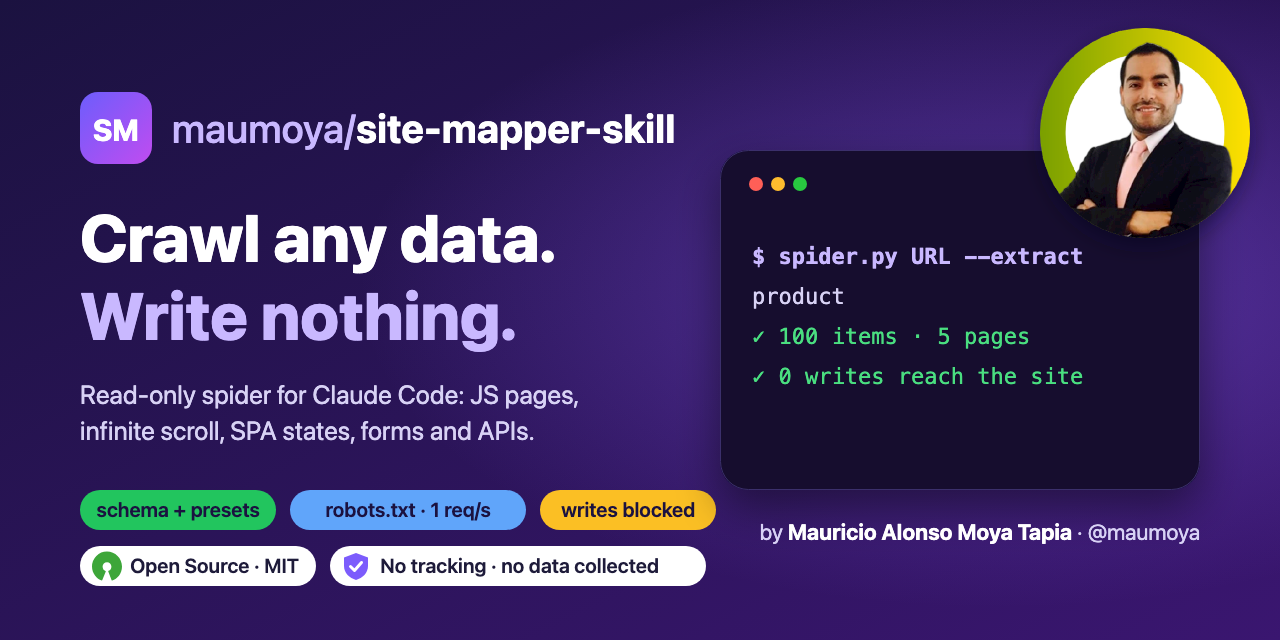
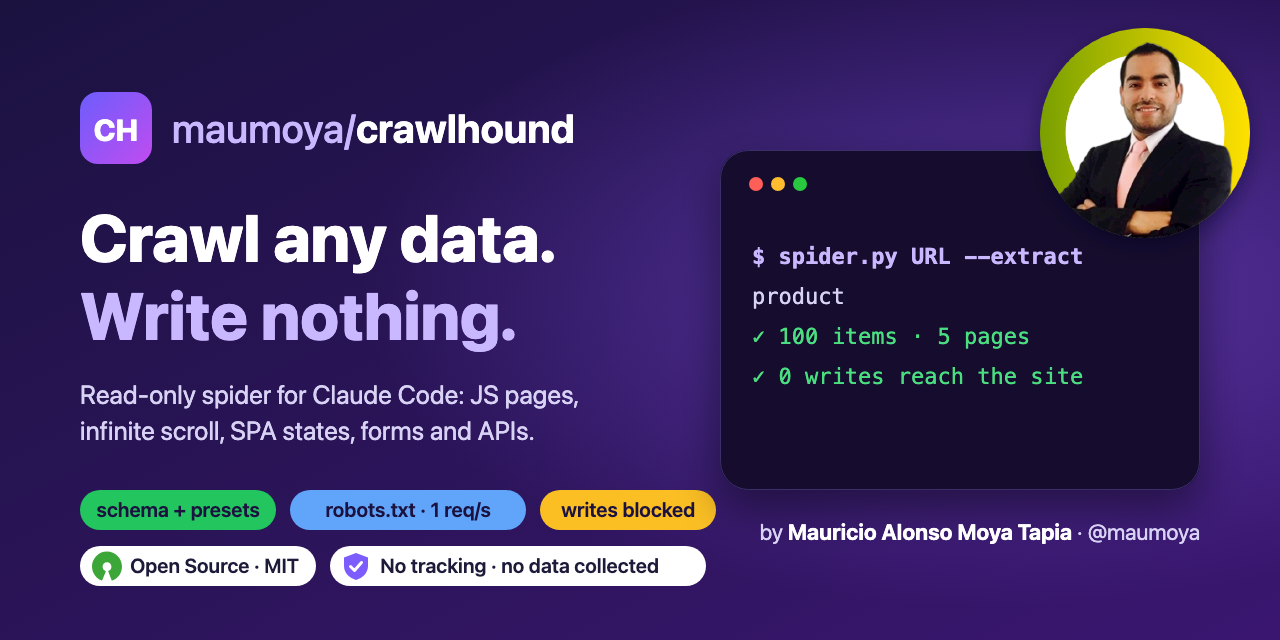
feat: rename to crawlhound 0.2.0; run tests in CI (#2)
* ci: run the unit and end-to-end tests on every PR

* docs: OpenSSF Best Practices passing badge

* feat: rename to crawlhound (0.2.0)

Repo is now maumoya/crawlhound; old links redirect. Skill, plugin,
marketplace, user agent, release zip and header follow. No behaviour change.

Changed region(s): [[0.2812, 0.1562, 0.5312, 0.25], [0.0625, 0.1875, 0.125, 0.2188]]

diff --git a/skills/crawlhound/scripts/spider.py b/skills/crawlhound/scripts/spider.py
@@ -1,4 +1,4 @@
-"""site-mapper spider: crawl a site read-only, map its SPA states and pull the data you choose.
+"""crawlhound spider: crawl a site read-only, map its SPA states and pull the data you choose.
 
 Data: `--extract SCHEMA` (a preset name or a JSON schema file, see extract.py) pulls items from every page state
 into items.jsonl. Map: what it records: the page tree, SPA states reached by clicking (tabs, modals, sidebar buttons without links),
@@ -38,8 +38,8 @@ sys.path.insert(0, str(Path(__file__).resolve().parent))
 import cdp as _cdp  # noqa: E402
 import extract as _extract  # noqa: E402
 
-USER_AGENT = "site-mapper/0.1 (+https://github.com/maumoya/site-mapper-skill; read-only; robots.txt honoured)"
-ROBOTS_TOKEN = "site-mapper"
+USER_AGENT = "crawlhound/0.2 (+https://github.com/maumoya/crawlhound; read-only; robots.txt honoured)"
+ROBOTS_TOKEN = "crawlhound"
 # Never mapped, never probed, never fetched, whatever the flags say. Private hosts are kept as SHA-256 hashes of
 # the registrable host name so the public code enforces the rule without naming them.
[1 lines of base64/hex data omitted]
@@ -225,7 +225,7 @@ def check_target(url: str, terms_ok: bool) -> str:
 GUARD_JS = r"""
 (() => {
   const log = (kind, detail) => { try { (window.__vsm = window.__vsm || []).push([kind, String(detail)]); } catch (e) {} };
-  const Blocked = function (url) { log('websocket', url); throw new Error('site mapper: WebSocket blocked'); };
+  const Blocked = function (url) { log('websocket', url); throw new Error('crawlhound: WebSocket blocked'); };
   try { window.WebSocket = Blocked; } catch (e) {}
   try { navigator.sendBeacon = (url) => { log('beacon', url); return false; }; } catch (e) {}
   try { window.open = (url) => { log('window.open', url); return null; }; } catch (e) {}

diff --git a/bench/runners/ours.py b/bench/runners/ours.py
@@ -1,4 +1,4 @@
-"""Run site-mapper's spider.py on one benchmark target; usage: ours.py TARGET [FIXTURE_ORIGIN]."""
+"""Run crawlhound's spider.py on one benchmark target; usage: ours.py TARGET [FIXTURE_ORIGIN]."""
 import json
 import subprocess
 import sys
@@ -9,7 +9,7 @@ from pathlib import Path
 sys.path.insert(0, str(Path(__file__).resolve().parent.parent))
 from common import BENCH, save, target  # noqa: E402
 
-SPIDER = BENCH.parent / "skills" / "site-mapper" / "scripts" / "spider.py"
+SPIDER = BENCH.parent / "skills" / "crawlhound" / "scripts" / "spider.py"
 
 
 def schema_for(t: dict) -> dict:
@@ -44,13 +44,13 @@ def main() -> None:
         seconds = round(time.time() - began, 1)
         out = Path(tmp) / "out"
         if proc.returncode != 0 or not (out / "map.json").exists():
-            save("site-mapper", name, {"status": "error", "note": proc.stderr[-500:], "seconds": seconds})
+            save("crawlhound", name, {"status": "error", "note": proc.stderr[-500:], "seconds": seconds})
             return
         rep = json.loads((out / "map.json").read_text())
         items = [json.loads(line) for line in (out / "items.jsonl").read_text().splitlines() if line]
         items = [{k: v for k, v in i.items() if not k.startswith("_")} for i in items]
         cov = rep["coverage"]
-        save("site-mapper", name, {
+        save("crawlhound", name, {
             "items": items, "pages": cov["pages"], "states": cov["states"], "forms": len(rep.get("forms", [])),
             "apis": len(rep.get("api", {})), "seconds": seconds,
             "blocked": len(rep.get("blocked_requests", [])), "note": "spider.py --extract, 1 req/s"})

diff --git a/bench/run.py b/bench/run.py
@@ -1,6 +1,6 @@
 """Run one tool on one target: starts the logging fixture server for the fixture target, then the runner.
 
-usage: run.py TOOL TARGET     (TOOL = site-mapper | scrapy | katana | crawlee | crawl4ai)
+usage: run.py TOOL TARGET     (TOOL = crawlhound | scrapy | katana | crawlee | crawl4ai)
 Docker tools reach the host fixture through host.lima.internal (colima) / host.docker.internal."""
 import json
 import os
@@ -13,7 +13,7 @@ import fixture_server  # noqa: E402
 from common import BENCH, RESULTS  # noqa: E402
 
 DOCKER_HOST_NAME = os.environ.get("BENCH_HOST_NAME", "host.lima.internal")
-RUNNERS = {"site-mapper": "ours.py", "scrapy": "scrapy_run.py", "katana": "katana_run.py",
+RUNNERS = {"crawlhound": "ours.py", "scrapy": "scrapy_run.py", "katana": "katana_run.py",
            "crawlee": "crawlee_run.py", "crawl4ai": "crawl4ai_run.py"}
 
 
@@ -23,7 +23,7 @@ def main() -> None:
     if name == "fixture":
         log = RESULTS / tool / "fixture-server.jsonl"
         bind = "127.0.0.1"
-        public = "127.0.0.1" if tool == "site-mapper" else DOCKER_HOST_NAME
+        public = "127.0.0.1" if tool == "crawlhound" else DOCKER_HOST_NAME
         server, origin = fixture_server.start(log, host=bind, public_host=public)
     try:
         subprocess.run([sys.executable, str(BENCH / "runners" / RUNNERS[tool]), name, origin], check=False)

diff --git a/tests/test_spider.py b/tests/test_spider.py
@@ -1,4 +1,4 @@
-"""site-mapper spider: policy units, schema extraction, WebSocket framing, and an end-to-end crawl of a localhost fixture.
+"""crawlhound spider: policy units, schema extraction, WebSocket framing, and an end-to-end crawl of a localhost fixture.
 
 The end-to-end test needs an installed Chrome; it is skipped when none is found."""
 import hashlib
@@ -12,7 +12,7 @@ from pathlib import Path
 
 import sys
 
-sys.path.insert(0, str(Path(__file__).resolve().parent.parent / "skills" / "site-mapper" / "scripts"))
+sys.path.insert(0, str(Path(__file__).resolve().parent.parent / "skills" / "crawlhound" / "scripts"))
 import cdp  # noqa: E402
 import extract  # noqa: E402
 import spider as sm  # noqa: E402
@@ -103,7 +103,7 @@ class RobotsRfc9309(unittest.TestCase):
 
     def test_own_group_wins_and_crawl_delay(self):
         text = ("User-agent: *\nDisallow: /\nCrawl-delay: 2\n\n"
-                "User-agent: site-mapper\nDisallow: /admin\nCrawl-delay: 5\nSitemap: http://h/s.xml\n")
+                "User-agent: crawlhound\nDisallow: /admin\nCrawl-delay: 5\nSitemap: http://h/s.xml\n")
         r = sm.Robots(text)
         self.assertTrue(r.allowed("http://h/page"))
         self.assertFalse(r.allowed("http://h/admin/x"))

diff --git a/skills/crawlhound/scripts/cdp.py b/skills/crawlhound/scripts/cdp.py
@@ -1,4 +1,4 @@
-"""site-mapper: a minimal Chrome DevTools Protocol client on the standard library only.
+"""crawlhound: a minimal Chrome DevTools Protocol client on the standard library only.
 
 The spider needs no pip installs, so this file carries its own small WebSocket
 client (RFC 6455, client side: masked frames out, fragmented frames in, ping answered) and a launcher for the
@@ -184,7 +184,7 @@ class Browser:
     on_event(method, params) is called for every event while a command is awaited or pump() runs."""
 
     def __init__(self, chrome: str, on_event, timeout: float = 15.0):
-        self.profile = tempfile.mkdtemp(prefix="site-mapper-")
+        self.profile = tempfile.mkdtemp(prefix="crawlhound-")
         args = [chrome, "--headless=new", "--remote-debugging-port=0", f"--user-data-dir={self.profile}",
                 "--no-first-run", "--no-default-browser-check", "--disable-extensions", "--disable-sync",
                 "--disable-background-networking", "--disable-component-update", "--disable-default-apps",

diff --git a/bench/common.py b/bench/common.py
@@ -6,7 +6,7 @@ from pathlib import Path
 BENCH = Path(__file__).resolve().parent
 TARGETS = json.loads((BENCH / "targets.json").read_text())
 RESULTS = BENCH / "results"
-UA = "site-mapper-bench/0.1 (+https://github.com/maumoya/site-mapper-skill)"
+UA = "crawlhound-bench/0.2 (+https://github.com/maumoya/crawlhound)"
 
 
 def target(name: str, fixture_origin: str = "") -> dict:

diff --git a/bench/score.py b/bench/score.py
@@ -14,7 +14,7 @@ BENCH = Path(__file__).resolve().parent
 sys.path.insert(0, str(BENCH))
 from common import RESULTS, TARGETS  # noqa: E402
 
-TOOLS = ["site-mapper", "crawlee", "crawl4ai", "scrapy", "katana", "firecrawl"]
+TOOLS = ["crawlhound", "crawlee", "crawl4ai", "scrapy", "katana", "firecrawl"]
 
 
 def norm(v):

diff --git a/bench/ground_truth.py b/bench/ground_truth.py
@@ -12,7 +12,7 @@ import urllib.request
 from pathlib import Path
 
 HERE = Path(__file__).resolve().parent
-UA = "site-mapper-bench/0.1 (+https://github.com/maumoya/site-mapper-skill)"
+UA = "crawlhound-bench/0.2 (+https://github.com/maumoya/crawlhound)"
 
 
 def get(url: str) -> str:

diff --git a/README.md b/README.md
@@ -1,19 +1,20 @@
 <!-- Regenerate the row with badges.sh: it adds Scorecard, Best Practices and measured benefit badges when they exist. -->
-<p align="center"><img src="assets/header.png" alt="Site Mapper: crawl any data, write nothing. Read-only spider for Claude Code." width="100%"></p>
+<p align="center"><img src="assets/header.png" alt="Crawlhound: crawl any data, write nothing. Read-only spider for Claude Code." width="100%"></p>
 
 <p align="center">
   <img src="https://img.shields.io/badge/Claude%20Code-skill%20%2B%20plugin-7c5cfc" alt="Claude Code skill and plugin">
   <img src="https://img.shields.io/badge/license-MIT-blue" alt="MIT license">
   <a href="https://opensource.org/license/mit"><img src="https://img.shields.io/badge/Open%20Source-OSI%20approved%20license-3DA639?logo=opensourceinitiative&logoColor=white" alt="Open Source: OSI-approved MIT license"></a>
   <img src="https://img.shields.io/badge/privacy-no%20tracking%20%C2%B7%20no%20data%20collected-7c5cfc" alt="Privacy: no tracking, no data collected">
-  <a href="https://scorecard.dev/viewer/?uri=github.com/maumoya/site-mapper-skill"><img src="https://api.scorecard.dev/projects/github.com/maumoya/site-mapper-skill/badge" alt="OpenSSF Scorecard"></a>
+  <a href="https://scorecard.dev/viewer/?uri=github.com/maumoya/crawlhound"><img src="https://api.scorecard.dev/projects/github.com/maumoya/crawlhound/badge" alt="OpenSSF Scorecard"></a>
+  <a href="https://www.bestpractices.dev/projects/16516"><img src="https://www.bestpractices.dev/projects/16516/badge" alt="OpenSSF Best Practices"></a>
 </p>
 
 <p align="center"><a href="#results-measured-2026-11-09"><img src="assets/result-card.svg" width="720" alt="100% of items with 100% field accuracy on 4 of 4 targets; 0% of writes reached the site (measured 2026-11-09)"></a></p>
 
-<p align="center"><img src="assets/demo.gif" width="720" alt="Demo: site-mapper crawls a loopback shop, lists a form without sending it, blocks a POST and writes 6 items."></p>
+<p align="center"><img src="assets/demo.gif" width="720" alt="Demo: crawlhound crawls a loopback shop, lists a form without sending it, blocks a POST and writes 6 items."></p>
 
-# Site Mapper
+# Crawlhound
 
 **Tell Claude what data you want from a site. You get it as JSON lines, plus a map of every page, SPA state, form and
 API, and no write ever reaches the site.**
@@ -27,21 +28,21 @@ including JavaScript pages, infinite scroll and SPA states that only a click rea
 Claude Code plugin:
 
 ```
-/plugin marketplace add maumoya/site-mapper-skill
-/plugin install site-mapper@site-mapper
+/plugin marketplace add maumoya/crawlhound
+/plugin install crawlhound@crawlhound
 ```
 
 Any agent that reads skills:
 
 ```
-npx skills add maumoya/site-mapper-skill
+npx skills add maumoya/crawlhound
 ```
 
 Needs Python 3.9+ and an installed Chrome or Chromium. No pip packages.
 
 ## Use
 
-Type `/site-mapper` or just ask:
+Type `/crawlhound` or just ask:
 
 - "Crawl quotes.toscrape.com/js and get every quote, author and tags."
 - "Extract the products and prices from my shop at localhost:3000."
@@ -50,7 +51,7 @@ Type `/site-mapper` or just ask:
 Or run the script yourself:
 
 ```
-python3 skills/site-mapper/scripts/spider.py https://quotes.toscrape.com/js/ \
+python3 skills/crawlhound/scripts/spider.py https://quotes.toscrape.com/js/ \
   --extract schema.json --include '/js/(page/[0-9]+/)?$' --terms-ok
 ```
 
@@ -64,7 +65,7 @@ routes, forms, GET APIs, blocked writes, coverage verdict).
 | Preset | `--extract text` · `tables` · `links` · `prices` · `product` · `article` | the ask fits a common shape |
 | Schema file | `--extract schema.json` (check it with `--check-schema`) | anything else: item selector and named fields, `attr`, `all`, `regex`, `type: number`, `match` |
 
-A schema is a few lines ([format](skills/site-mapper/references/schema.md)):
+A schema is a few lines ([format](skills/crawlhound/references/schema.md)):
 
 ```json
 {"name": "quotes", "item": ".quote",
@@ -89,7 +90,7 @@ sandboxes built for scraping practice (quotes.toscrape.com `/js/` and `/scroll`,
 
 | Tool | Items found (recall), 4 targets | Field accuracy | SPA states mapped | Writes reaching the fixture | robots.txt violations | Time, quotes-js |
 |---|---|---|---|---|---|---|
-| **site-mapper** | **100% · 100% · 100% · 100%** | 100% | **yes (13 on the fixture)** | **0** | **0** | 1135 s |
+| **crawlhound** | **100% · 100% · 100% · 100%** | 100% | **yes (13 on the fixture)** | **0** | **0** | 1135 s |
 | Crawlee 3.13 | 100% · 100% · 100% · 100% | 100% | no | 0 | 0 | 19 s |
 | Crawl4AI 0.6.3 | 100% · 100% · 100% · 20% | 100% | no | 0 | 0 | 33 s |
 | Scrapy 2.13 | 0% · 0% · 0% · 100% (no JavaScript) | 100% where found | no | 0 | 0 | 14 s |
@@ -98,8 +99,8 @@ sandboxes built for scraping practice (quotes.toscrape.com `/js/` and `/scroll`,
 
 What this shows, honestly:
 
-- **Accuracy:** site-mapper and Crawlee both found every item with every field right on all 4 targets.
-- **Where site-mapper is different:** it is the only tool that maps SPA states (clicks that change the page without a
+- **Accuracy:** crawlhound and Crawlee both found every item with every field right on all 4 targets.
+- **Where crawlhound is different:** it is the only tool that maps SPA states (clicks that change the page without a
   link) and lists the write requests it blocked. Writes and robots.txt are measured on the fixture only, where the
   server logs every request.
 - **Where it loses:** speed. It clicks every button and tab and waits 1 second between requests, so the 10-page
@@ -139,7 +140,7 @@ No. It is instructions and local scripts; the only network traffic is the crawl 
 
 ## About the author
 
-Hi, I'm **Mauricio Alonso Moya Tapia** ([@maumoya](https://github.com/maumoya)). I built site-mapper for VISION,
+Hi, I'm **Mauricio Alonso Moya Tapia** ([@maumoya](https://github.com/maumoya)). I built crawlhound for VISION,
 my own agent framework, to see every page, state and API of a web app and pull its data without changing anything.
 
 Say hi or follow my work on [GitHub](https://github.com/maumoya).

diff --git a/bench/results/RESULTS.md b/bench/results/RESULTS.md
@@ -1,25 +1,27 @@
 | Target | Tool | Items found (recall) | Precision | Field accuracy | Pages | SPA states | Forms | GET APIs | Writes reaching server | robots.txt violations | Time (s) |
 |---|---|---|---|---|---|---|---|---|---|---|---|
-| fixture | site-mapper | 100% | 100% | 100% | 6 | 13 | 1 | 4 | 0 | 0 | 44.4 |
+| fixture | crawlhound | 100% | 100% | 100% | 6 | 13 | 1 | 4 | 0 | 0 | 44.4 |
 | fixture | crawlee | 100% | 100% | 100% | 6 | — | 1 | 3 | 0 | 0 | 12.2 |
 | fixture | crawl4ai | 100% | 100% | 100% | 6 | — | 1 | — | 0 | 0 | 20.4 |
 | fixture | scrapy | 0% | n/a | n/a | 6 | — | 1 | — | 0 | 0 | 11.3 |
 | fixture | katana | n/a | n/a | n/a | 8 | — | 1 | 1 | 0 | 1 | 50.9 |
-| quotes-js | site-mapper | 100% | 100% | 100% | 11 | 11 | 0 | 0 | — | — | 1134.6 |
+| quotes-js | crawlhound | 100% | 100% | 100% | 11 | 11 | 0 | 0 | — | — | 1134.6 |
 | quotes-js | crawlee | 100% | 100% | 100% | 11 | — | 0 | 0 | — | — | 19.2 |
 | quotes-js | crawl4ai | 100% | 100% | 100% | 11 | — | 0 | — | — | — | 32.7 |
 | quotes-js | scrapy | 0% | n/a | n/a | 11 | — | 0 | — | — | — | 14.2 |
 | quotes-js | katana | n/a | n/a | n/a | 11 | — | 0 | 0 | — | — | 41.8 |
 | quotes-js | firecrawl | 40% | 100% | 62% | 4 | — | — | — | — | — | 34.0 |
-| quotes-scroll | site-mapper | 100% | 100% | 100% | 1 | 3 | 0 | 10 | — | — | 434.8 |
+| quotes-scroll | crawlhound | 100% | 100% | 100% | 1 | 3 | 0 | 10 | — | — | 434.8 |
 | quotes-scroll | crawlee | 100% | 100% | 100% | 1 | — | 0 | 11 | — | — | 13.5 |
 | quotes-scroll | crawl4ai | 100% | 100% | 100% | 1 | — | 0 | — | — | — | 10.1 |
 | quotes-scroll | scrapy | 0% | n/a | n/a | 1 | — | 0 | — | — | — | 1.6 |
 | quotes-scroll | katana | n/a | n/a | n/a | 1 | — | 0 | 1 | — | — | 20.9 |
 | quotes-scroll | firecrawl | 10% | 100% | 100% | 1 | — | — | — | — | — | 8.0 |
-| books | site-mapper | 100% | 100% | 100% | 5 | 5 | 105 | 0 | — | — | 54.8 |
+| books | crawlhound | 100% | 100% | 100% | 5 | 5 | 105 | 0 | — | — | 54.8 |
 | books | crawlee | 100% | 100% | 100% | 5 | — | 105 | 0 | — | — | 48.1 |
 | books | crawl4ai | 20% | 100% | 100% | 1 | — | 21 | — | — | — | 19.3 |
 | books | scrapy | 100% | 100% | 100% | 5 | — | 105 | — | — | — | 9.8 |
 | books | katana | n/a | n/a | n/a | 5 | — | 10 | 0 | — | — | 36.6 |
 | books | firecrawl | 100% | 100% | 100% | 5 | — | — | — | — | — | 41.0 |
+
+These runs were made on 2026-11-09 under the old name site-mapper 0.1.0; the raw server logs (`*.jsonl`) keep that user agent.

diff --git a/skills/crawlhound/SKILL.md b/skills/crawlhound/SKILL.md
@@ -1,10 +1,10 @@
 ---
-name: site-mapper
-description: Read-only web spider for Claude Code. Crawls the data the user chooses (a JSON schema written from their plain-English ask, or a preset - text, tables, links, prices, product, article) from static and JavaScript sites, and maps pages, SPA states, routes, forms and GET APIs. Honours robots.txt at 1 request per second and blocks every write in the browser. Use when the user says "/site-mapper", "crawl this site", "spider this site", "scrape every page for X", "extract the products/prices/tables from this site", "map my app's pages and routes", or asks what data or pages a website has. Not for submitting forms, logging in, load testing, or a single page summary.
+name: crawlhound
+description: Read-only web spider for Claude Code. Crawls the data the user chooses (a JSON schema written from their plain-English ask, or a preset - text, tables, links, prices, product, article) from static and JavaScript sites, and maps pages, SPA states, routes, forms and GET APIs. Honours robots.txt at 1 request per second and blocks every write in the browser. Use when the user says "/crawlhound", "crawl this site", "spider this site", "scrape every page for X", "extract the products/prices/tables from this site", "map my app's pages and routes", or asks what data or pages a website has. Not for submitting forms, logging in, load testing, or a single page summary.
 license: MIT
 ---
 
-# Site Mapper
+# Crawlhound
 
 A read-only spider. It drives headless Chrome over the DevTools protocol, crawls one origin, and returns
 `items.jsonl` (the data the user asked for) plus `map.json` / `map.md` (pages, SPA states, routes, forms, GET APIs,
